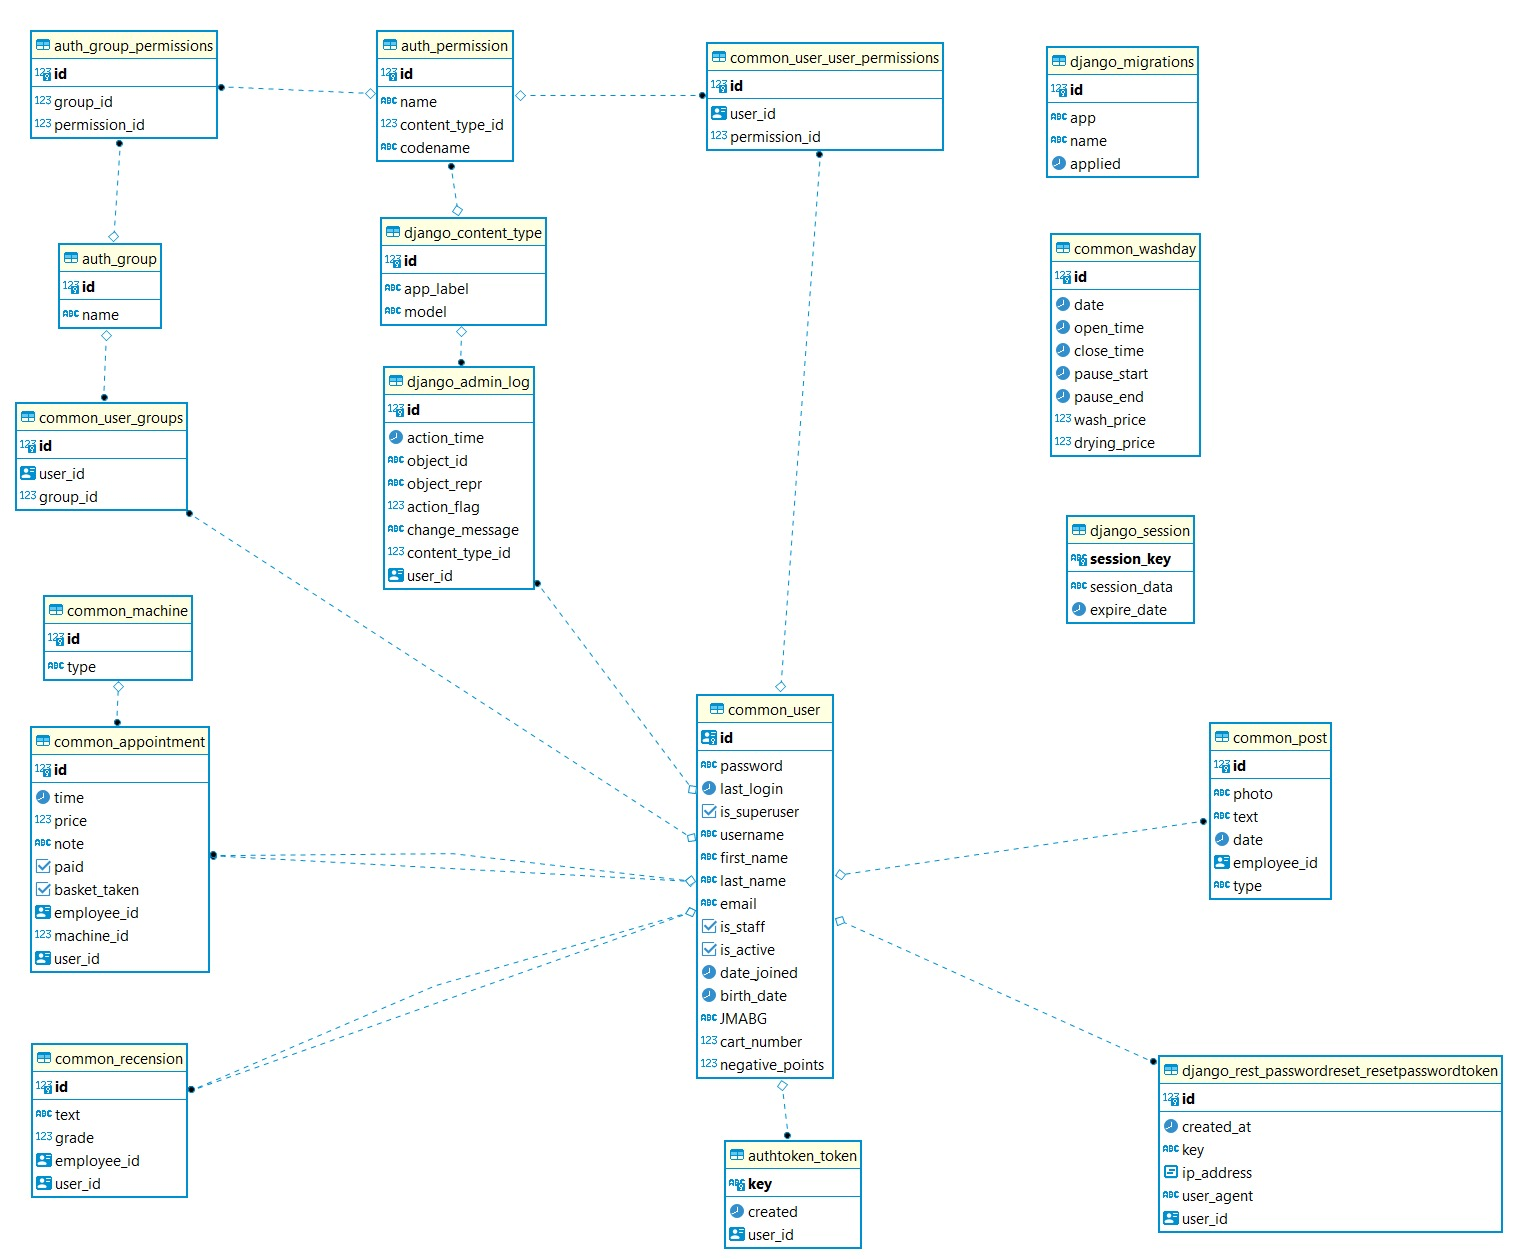
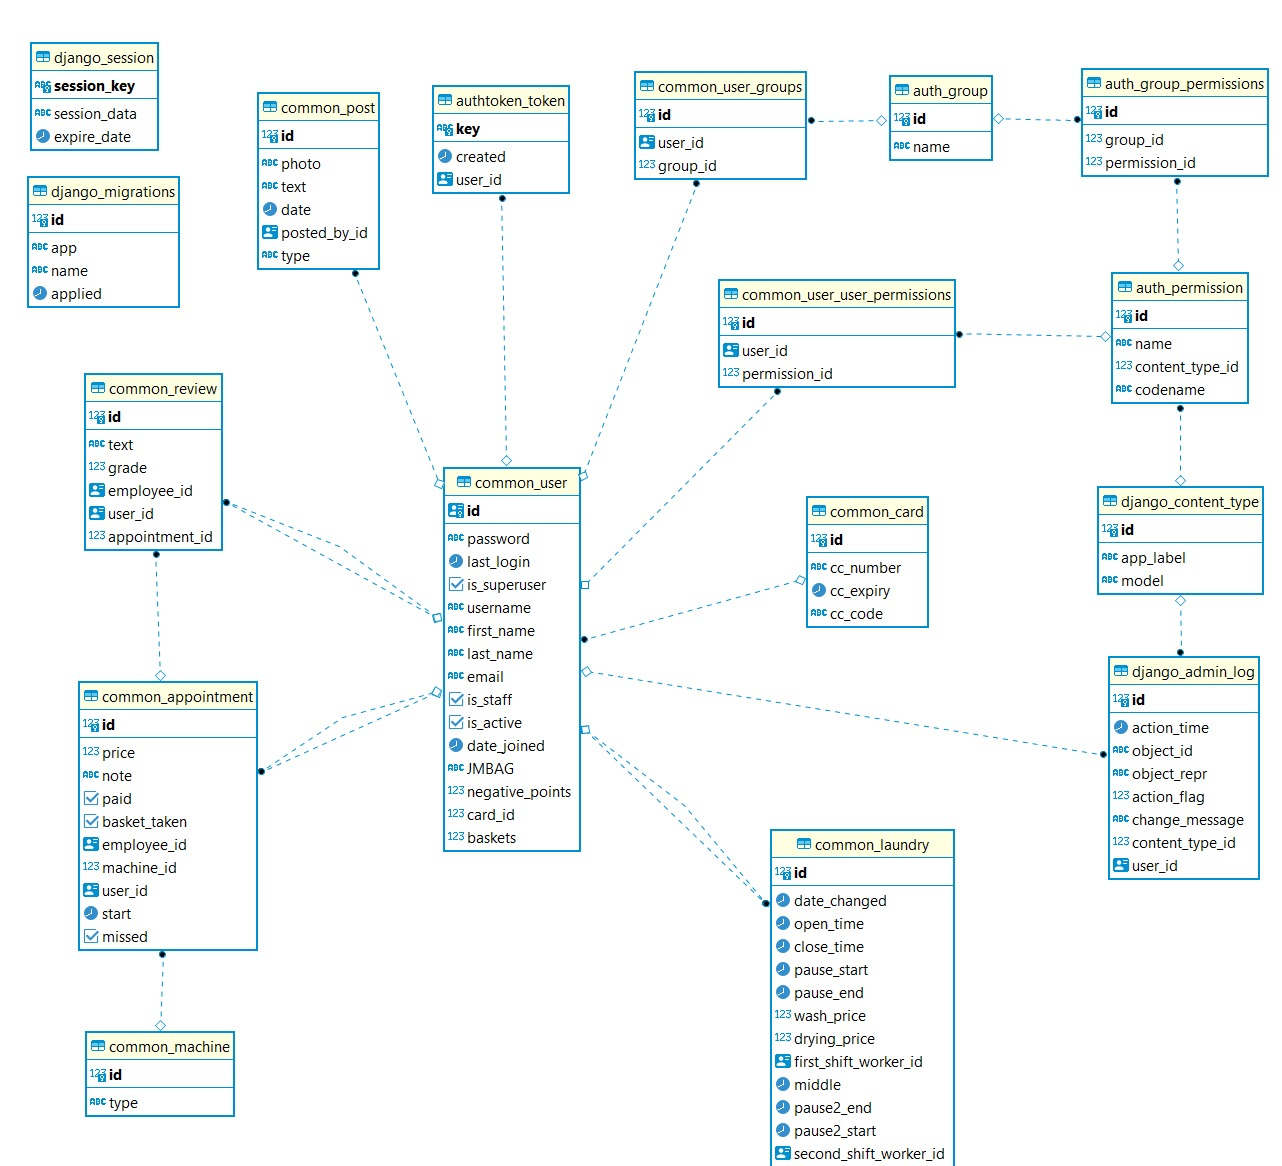
Changes to database

diff --git a/dokumentacija/Arhitektura.tex b/dokumentacija/Arhitektura.tex
@@ -55,8 +55,9 @@
 			\item 	Appointment
 			\item 	User
 			\item 	Post
-			\item 	Recension
-			\item 	Washday
+			\item 	Review
+			\item 	Laundry
+			\item 	Card
 		\end{packed_item}	
 	
 		\noindent Osim naših tablica, Django sam stvara nove tablice poput permissiona, sessiona i logova.
@@ -87,7 +88,7 @@
 				\end{longtabu}
 				\end{comment}
 			
-			\noindent\textbf{Machine}  Ovaj entitet sadrži sve važne informacije vezane za uređaj u praonici. Sadrži atribute: id uređaja i type. Ovaj entitet u vezi je \textit{Many-to-One} s entitetom Appointment preko id-a uređaja.
+			\noindent\textbf{Machine}  Ovaj entitet sadrži sve važne informacije vezane za uređaj u praonici. Sadrži atribute: id uređaja i type. Ovaj entitet u vezi je \textit{One-to-Many} s entitetom Appointment preko id-a uređaja.
 			
 			\begin{longtabu} to \textwidth {|X[8, l]|X[6, l]|X[20, l]|}
 				
@@ -106,7 +107,7 @@
 				
 			\end{longtabu}
 		
-			\noindent\textbf{Appointment}  Ovaj entitet sadrži sve važne informacije vezane za rezervirani termin u praonici. Sadrži atribute: id termina, time, machine\_id, price, opcionalni note, paid, basket\_taken, user\_id i employee\_id. Ovaj entitet u vezi je \textit{One-to-Many} s entitetom Machine preko id-a uređaja, vezi \textit{Many-to-One} s entitetom User preko id-a korisnika i id-a zaposlenika.
+			\noindent\textbf{Appointment}  Ovaj entitet sadrži sve važne informacije vezane za rezervirani termin u praonici. Sadrži atribute: id termina, start, machine\_id, price, opcionalni note, paid, basket\_taken, user\_id, employee\_id i missed. Ovaj entitet u vezi je \textit{Many-to-One} s entitetom Machine preko id-a uređaja, vezi \textit{Many-to-One} s entitetom User preko id-a korisnika i id-a zaposlenika i vezi \textit{One-to-One} s entitetom Review preko id-a termina.
 		
 			\begin{longtabu} to \textwidth {|X[8, l]|X[6, l]|X[20, l]|}
 				
@@ -119,18 +120,19 @@
 				\hline 
 				\endlastfoot
 				\textbf{id} & INT	&  jedinstveni brojčani identifikator	\\ \hline
-				time & TIMESTAMP	&  	datum rezerviranog termina u praonici i vrijeme početka 	\\ \hline
+				start & TIMESTAMP	&  	datum rezerviranog termina u praonici i vrijeme početka 	\\ \hline
 				machine\_id (FK)	& INT &  jedinstveni identifikator uređaja kojeg rezerviramo u terminu (machine.id) 	\\ \hline 
 				price & FLOAT &  cijena usluge koju korisnik plaća (pranje ili sušenje) \\ \hline 
 				note & VARCHAR	& opcionalna bilješka zaposleniku \\ \hline 
 				paid & BOOLEAN	& korisnik bira hoće li platiti termin online ili uživo	\\ \hline 
-				basket\_taken & BOOLEAN	& korisnik može posuditi jednu košaru iz praonice 	\\ \hline 
+				basket\_taken & BOOLEAN	& korisnik može posuditi jednu košaru po terminu iz praonice 	\\ \hline 
 				user\_id (FK)	& INT &  jedinstveni identifikator korisnika koji je rezervirao termin (user.id) 	\\ \hline 
 				employee\_id (FK)	& INT &  jedinstveni identifikator zaposlenika koji radi za vrijeme rezerviranog termina (user.id)	\\ \hline
+				missed	& BOOLEAN &  zaposlenici vode evidenciju propuštenih termina	\\ \hline
 				
 			\end{longtabu}
 		
-			\noindent\textbf{User}  Ovaj entitet sadrži sve važne informacije vezane za različite korisnike u praonici. Sadrži atribute: id korisnika, username, password, first\_name, last\_name, jedinstveni JMBAG, jedinstveni email, is\_active, is\_staff, card\_number, negative\_points, date\_joined, last\_login, is\_superuser. Ovaj entitet u vezi je \textit{One-to-Many}  \textit{One-to-Many} s entitetom Appointment preko id-a korisnika, u vezi \textit{One-to-Many} s entitetom Post preko id-a korisnika i u vezi \textit{One-to-Many} s entitetom Recension preko id-a korisnika.
+			\noindent\textbf{User}  Ovaj entitet sadrži sve važne informacije vezane za različite korisnike u praonici. Sadrži atribute: id korisnika, username, password, first\_name, last\_name, jedinstveni JMBAG,  jedinstveni email, is\_active, is\_staff, card\_id, negative\_points, date\_joined, last\_login, is\_superuser i baskets. Ovaj entitet u vezi je \textit{One-to-Many} s entitetom Appointment preko id-a korisnika, u vezi \textit{One-to-Many} s entitetom Post preko id-a korisnika, u vezi \textit{One-to-Many} s entitetom Review preko id-a korisnika, u vezi \textit{One-to-One} s entitetom Card preko id-a kreditne kartice i u vezi \textit{Many-to-Many} s entitetom Laundry preko id-a korisnika
 		
 			\begin{longtabu} to \textwidth {|X[8, l]|X[6, l]|X[20, l]|}
 				
@@ -153,17 +155,18 @@
 				is\_active & BOOLEAN &  svi korisnici čije registracije su potvrđene od zaposlenika i koji nisu blokirani\\ \hline 
 				is\_staff & BOOLEAN &  oznaka je li korisnik i zaposlenik\\ \hline 
 				is\_superuser	& BOOLEAN &   pokazuje je li korisnik ujedno i administrator	\\ \hline
-				card\_number	& VARCHAR &   broj kreditne kartice korisnika	\\ \hline
+				card\_id (FK)	& INT &   jedinstveni idnetifikator kreditne kartice (card.id) \\ \hline
 				negative\_points	& INT &   broj negativnih bodova korisnika	\\ \hline
 				date\_joined	& DATE &   datum registracije korisnika	\\ \hline
 				last\_login	& TIMESTAMP &  vrijeme zadnje prijave u sustav	\\ \hline
+				baskets	& INT &  broj košara koje je su trenutno kod korisnika	\\ \hline
 			
 				
 				
 			\end{longtabu}
 		
 			\noindent\textbf{Post}  Ovaj entitet sadrži sve važne informacije vezane za objavu. Sadrži atribute: id objave, photo, text, date, type i employee\_id. 
-			Ovaj entitet u vezi je \textit{Many-to-One} s entitetom User preko id-a zaposlenika.
+			Ovaj entitet u vezi je \textit{Many-to-One} s entitetom User preko id-a korisnika.
 		
 			\begin{longtabu} to \textwidth {|X[8, l]|X[6, l]|X[20, l]|}
 				
@@ -181,20 +184,20 @@
 				text	& VARCHAR &   tekst objave	\\ \hline
 				date	& DATE &  datum objavljivanja objave	\\ \hline
 				type	& BOOLEAN &   ako je vrijednost zastavice 1, objava se prikazuje na "LostAndFound" stranici 	\\ \hline
-				employee\_id (FK)	& INT &  id zaposlenika koji radi za vrijeme rezerviranog termina (user.id) 	\\ \hline		
+				posted\_by\_id (FK)	& INT &  id korisnika koji je napravio objavu (user.id) 	\\ \hline		
 						
 				
 				
 			\end{longtabu}
 		
-			\noindent\textbf{Recension}  Ovaj entitet sadrži sve važne informacije vezane za recenzije. Sadrži atribute: id recenzije, user\_id, employee\_id, text i grade. Ovaj entitet u vezi je \textit{Many-to-One} s entitetom User preko id-a zaposlenika i id-a korisnika.
+			\noindent\textbf{Review}  Ovaj entitet sadrži sve važne informacije vezane za recenzije. Sadrži atribute: id recenzije, user\_id, employee\_id, text, grade i appointment\_id. Ovaj entitet u vezi je \textit{Many-to-One} s entitetom User preko id-a zaposlenika i id-a korisnika i u vezi \textit{One-to-One} s entitetom Appointment preko id-a termina.
 		
 			\begin{longtabu} to \textwidth {|X[8, l]|X[6, l]|X[20, l]|}
 				
-				\hline \multicolumn{3}{|c|}{\textbf{Recension}}	 \\[3pt] \hline
+				\hline \multicolumn{3}{|c|}{\textbf{Review}}	 \\[3pt] \hline
 				\endfirsthead
 				
-				\hline \multicolumn{3}{|c|}{\textbf{Recension}}	 \\[3pt] \hline
+				\hline \multicolumn{3}{|c|}{\textbf{Review}}	 \\[3pt] \hline
 				\endhead
 				
 				\hline 
@@ -205,30 +208,58 @@
 				employee\_id (FK)	& INT &  id recenziranog zaposlenika (user.id)	\\ \hline
 				text	& VARCHAR &   tekst recenzije	\\ \hline
 				grade	& INT & ocjena zaposlenika od 1 do 5	\\ \hline
-				
+				appointment\_id (FK)	& INT & id termina koji se recenzira (appointment.id)	\\ \hline
+								
 			\end{longtabu}
 			
-			\noindent\textbf{Washday}  Ovaj entitet sadrži sve važne informacije vezane za radni dan praonice. Sadrži atribute: id radnog dana, date, open\_time, close\_time, pause\_start, pause\_end i wash\_price. Ovaj entitet nije u vezi ni s jednim drugim entitetom.
+			\noindent\textbf{Laundry}  Ovaj entitet sadrži sve važne informacije vezane za radni dan praonice. Sadrži atribute: id radnog dana, date\_changed, open\_time, close\_time, pause\_start, pause\_end, wash\_price, drying\_price, first\_shift\_worker\_id, middle, pause2\_star, pause2\_end i second\_shift\_worker\_id. Ovaj entitet u vezi je \textit{Many-to-Many} s entitetom User preko id-a radnika prve i druge smjene.
 			
-			\begin{longtabu} to \textwidth {|X[8, l]|X[6, l]|X[20, l]|}
+			\begin{longtabu} to \textwidth {|X[11, l]|X[6, l]|X[20, l]|}
 				
-				\hline \multicolumn{3}{|c|}{\textbf{Washday}}	 \\[3pt] \hline
+				\hline \multicolumn{3}{|c|}{\textbf{Laundry}}	 \\[3pt] \hline
 				\endfirsthead
 				
-				\hline \multicolumn{3}{|c|}{\textbf{Washday}}	 \\[3pt] \hline
+				\hline \multicolumn{3}{|c|}{\textbf{Laundry}}	 \\[3pt] \hline
 				\endhead
 				
 				\hline 
 				\endlastfoot
 				
 				\textbf{id} & INT	&  jedinstveni brojčani  identifikator radnog dana praonice	\\ \hline
-				date & DATE	&  trenutni datum	\\ \hline
+				date\_changed & TIMESTAMP	&  vrijeme promjene radnog vremena	\\ \hline
 				open\_time	& TIME &   početak radnog vremena	\\ \hline
 				close\_time	& TIME & kraj radnog vremena	\\ \hline
-				pause\_start	& TIME & početak pauze	\\ \hline
-				pause\_end	& TIME & kraj pauze	\\ \hline
+				pause\_start	& TIME & početak prve pauze	\\ \hline
+				pause\_end	& TIME & kraj prve pauze	\\ \hline
 				wash\_price	& FLOAT & cijena jednog pranja	\\ \hline
 				drying\_price	& FLOAT & cijena jednog sušenja	\\ \hline
+				first\_shift\_worker\_id (FK) & INT & id zaposlenika prve smjene (user.id)	\\ \hline
+				middle	& TIME & sredina dana, početak druge smjene	\\ \hline
+				pause2\_start	& TIME & početak druge pauze	\\ \hline
+				pause2\_end	& TIME & kraj druge pauze	\\ \hline
+				second\_shift\_worker\_id (FK) & INT & id zaposlenika druge smjene (user.id)	\\ \hline
+				
+				
+				
+			\end{longtabu}
+		
+			\noindent\textbf{Card}  Ovaj entitet sadrži sve važne informacije vezane za kreditnu karticu korisnika. Sadrži atribute: id kartice, cc\_number, cc\_expiry i cc\_code. Ovaj entitet u vezi je \textit{One-to-One} s entitetom User preko id-a kreditne kartice.
+			
+			\begin{longtabu} to \textwidth {|X[8, l]|X[6, l]|X[20, l]|}
+				
+				\hline \multicolumn{3}{|c|}{\textbf{Card}}	 \\[3pt] \hline
+				\endfirsthead
+				
+				\hline \multicolumn{3}{|c|}{\textbf{Card}}	 \\[3pt] \hline
+				\endhead
+				
+				\hline 
+				\endlastfoot
+				
+				\textbf{id} & INT	&  jedinstveni brojčani identifikator	\\ \hline
+				cc\_number & VARCHAR &  broj kreditne kartice\\ \hline 
+				cc\_expiry & DATE &  datum isteka kreditne kartice\\ \hline 
+				cc\_code & VARCHAR &  CVV kod kreditne kartice\\ \hline 
 				
 				
 			\end{longtabu}
